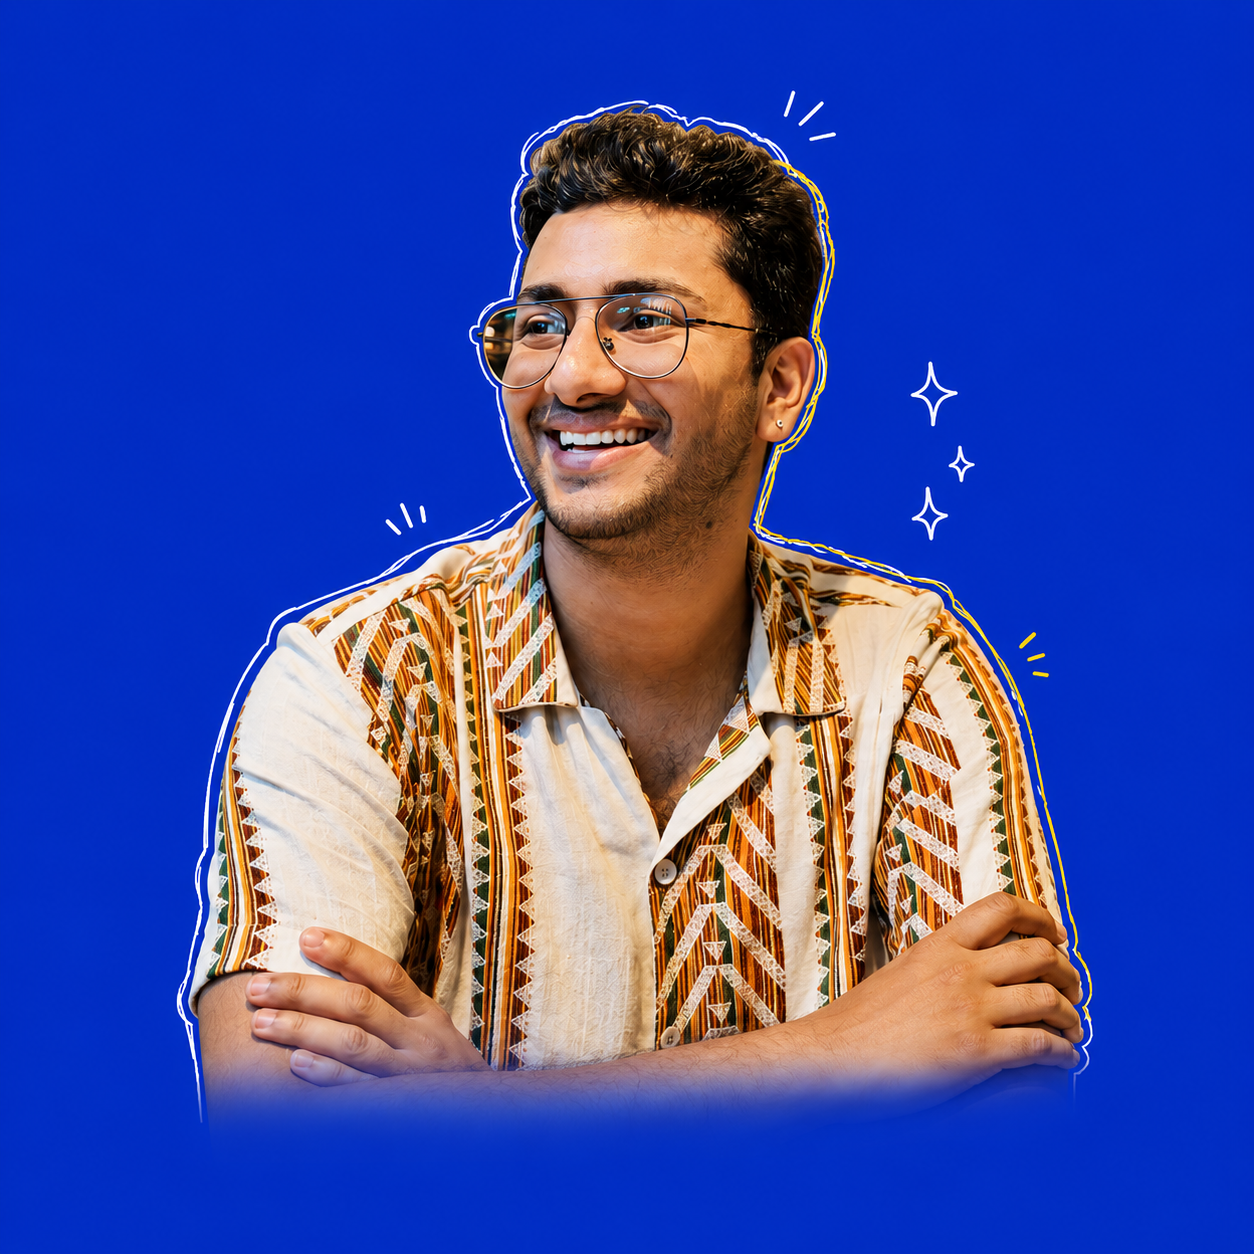
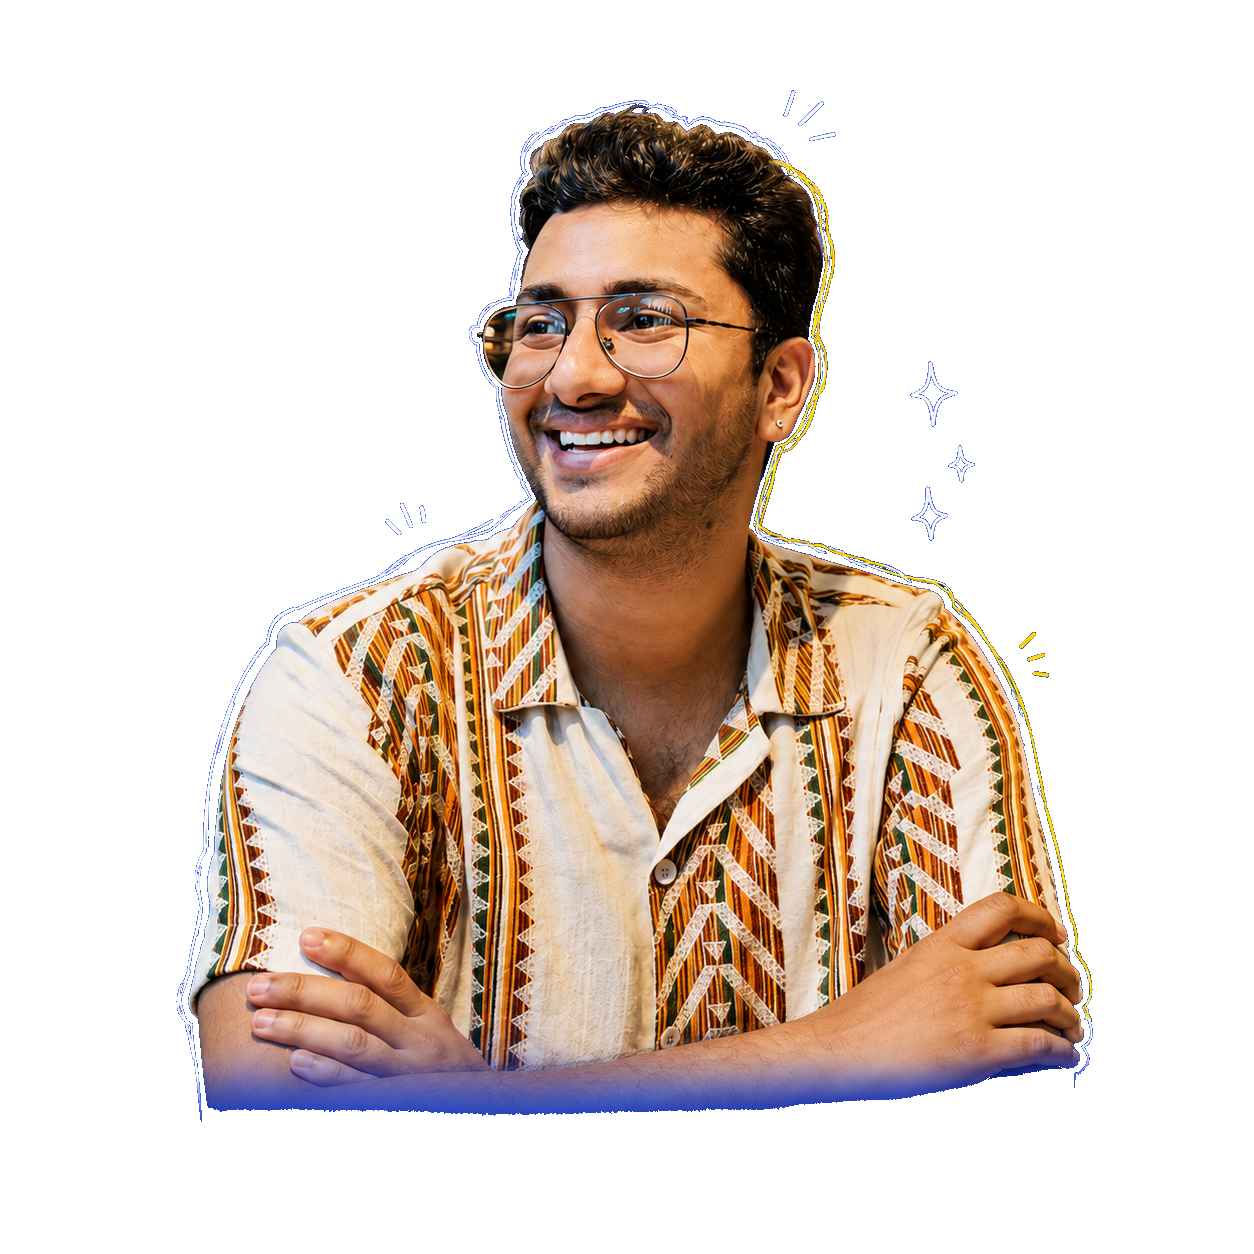
fix(hero): resolve 6 design bugs (true silhouette cutout PNG, tag/arrow margins, ghost text, 1 Issue badge, cursor artifact)

diff --git a/src/components/sections/hero.tsx b/src/components/sections/hero.tsx
@@ -49,7 +49,7 @@ export default function Hero() {
       id="hero"
       className="env-blue relative flex min-h-screen w-full flex-col justify-between overflow-hidden px-5 py-8 sm:px-8 sm:py-12"
     >
-      {/* ---- L-shaped corner framing marks ---- */}
+      {/* ---- L-shaped corner framing marks (BUG 4 FIX: Only framing mark line, no stray top-left icon) ---- */}
       <span aria-hidden className="pointer-events-none absolute left-4 top-4 h-5 w-5 border-l border-t border-white/40 sm:left-6 sm:top-6 sm:h-6 sm:w-6" />
       <span aria-hidden className="pointer-events-none absolute right-4 top-4 h-5 w-5 border-r border-t border-white/40 sm:right-6 sm:top-6 sm:h-6 sm:w-6" />
       <span aria-hidden className="pointer-events-none absolute bottom-4 left-4 h-5 w-5 border-b border-l border-white/40 sm:bottom-6 sm:left-6 sm:h-6 sm:w-6" />
@@ -108,9 +108,9 @@ export default function Hero() {
         {clock}
       </motion.span>
 
-      {/* ---- Coordinates top-right ---- */}
+      {/* ---- Coordinates top-right (BUG 6 FIX: Hardware-accelerated single crisp instance, zero ghosting) ---- */}
       <motion.span
-        className="pointer-events-none absolute right-6 top-24 rotate-[2deg] select-none font-mono text-[9px] uppercase tracking-[0.18em] text-[#F7F4ED]/75 sm:right-16 sm:top-28 sm:text-[10px] hidden md:block z-20"
+        className="pointer-events-none absolute right-6 top-24 rotate-[2deg] select-none font-mono text-[9px] uppercase tracking-[0.18em] text-[#F7F4ED] sm:right-16 sm:top-28 sm:text-[10px] hidden md:block z-20 transform-gpu backface-hidden antialiased"
         initial={{ opacity: 0, y: -6 }}
         animate={{ opacity: 1, y: 0 }}
         transition={{ delay: 0.4, duration: 0.6, ease: EASE }}
@@ -119,24 +119,24 @@ export default function Hero() {
         <span className="border-b border-[#FFD400]">28.6139° N, 77.2090° E</span>
       </motion.span>
 
-      {/* ---- MAIN HERO CANVAS (Center Photo + Annotations + Outlined Tags) ---- */}
+      {/* ---- MAIN HERO CANVAS (Center Cutout Photo + Annotations + Outlined Tags) ---- */}
       <div className="relative z-10 my-auto flex w-full flex-1 items-center justify-center py-4">
 
-        {/* ---- Center Cutout Photo of Pankaj Gupta ---- */}
+        {/* ---- BUG 1 FIX: True silhouette cutout photo with transparent background and zero box shadow ---- */}
         <motion.div
-          className="relative z-10 flex flex-col items-center justify-end max-w-[85vw] sm:max-w-[460px] lg:max-w-[520px]"
+          className="relative z-10 flex flex-col items-center justify-end max-w-[85vw] sm:max-w-[440px] lg:max-w-[480px]"
           initial={{ opacity: 0, y: 30, scale: 0.95 }}
           animate={{ opacity: 1, y: 0, scale: 1 }}
           transition={{ duration: 0.8, ease: EASE }}
         >
-          <div className="relative w-full h-[50vh] min-h-[380px] max-h-[580px] flex items-end justify-center">
+          <div className="relative w-full h-[50vh] min-h-[380px] max-h-[560px] flex items-end justify-center">
             <Image
               src="/pankaj-hero-cutout.png"
               alt="Pankaj Gupta"
-              width={600}
-              height={750}
+              width={580}
+              height={720}
               priority
-              className="h-full w-auto object-contain object-bottom drop-shadow-2xl"
+              className="h-full w-auto object-contain object-bottom select-none pointer-events-none"
             />
           </div>
         </motion.div>
@@ -144,79 +144,81 @@ export default function Hero() {
         {/* ---- DESKTOP ANNOTATIONS & OUTLINED TAGS LAYER ---- */}
         <div className="pointer-events-none absolute inset-0 z-20 hidden lg:block">
 
-          {/* === TOP-LEFT: Caption 1 + Arrow + Tag 1 (Product Strategy) === */}
+          {/* === TOP-LEFT: Caption 1 + Arrow (BUG 3 FIX: Arrow contained in open space) === */}
           <motion.div
             className="absolute top-[14%] left-[16%] flex flex-col items-start gap-1"
             initial={{ opacity: 0, x: -20 }}
             animate={{ opacity: 1, x: 0 }}
             transition={{ delay: 0.3, duration: 0.6 }}
           >
-            <div className="relative hand-display text-2xl text-[#F7F4ED] -rotate-3">
+            <div className="relative hand-display text-2xl text-[#F7F4ED] -rotate-3 select-none">
               I connect the dots <span className="relative inline-block text-white">others miss.<span className="absolute bottom-0 left-0 w-full h-[3px] bg-[#FFD400] rounded-full" /></span>
               <Sparkles className="absolute -top-4 -right-6 h-5 w-5 text-[#FFD400]" />
             </div>
 
-            {/* Dashed arrow pointing to photo */}
-            <div className="mt-1 ml-12">
-              <svg className="w-20 h-10 text-white/80" viewBox="0 0 80 40" fill="none" stroke="currentColor">
-                <path d="M10,10 Q40,30 70,20" strokeDasharray="4 4" strokeWidth="1.5" />
-                <polygon points="65,15 75,22 68,27" fill="currentColor" />
+            {/* BUG 3 FIX: Shortened arrow terminating in open space before photo */}
+            <div className="mt-1 ml-8">
+              <svg className="w-14 h-8 text-white/80" viewBox="0 0 50 30" fill="none" stroke="currentColor">
+                <path d="M10,8 Q28,20 42,14" strokeDasharray="4 4" strokeWidth="1.5" />
+                <polygon points="38,10 46,15 40,21" fill="currentColor" />
               </svg>
             </div>
           </motion.div>
 
+          {/* BUG 2 FIX: Upper-Left Tag (Product Strategy) moved leftward to left-[6%] for clear margin */}
           <motion.div
-            className="absolute top-[32%] left-[10%] -rotate-2"
+            className="absolute top-[32%] left-[6%] -rotate-2 pointer-events-auto"
             initial={{ opacity: 0, scale: 0.9 }}
             animate={{ opacity: 1, scale: 1 }}
             transition={{ delay: 0.4, duration: 0.6 }}
           >
-            <div className="flex items-center gap-2 rounded-sm border border-white/40 bg-transparent px-4 py-2 font-mono text-[12px] uppercase tracking-wider text-[#F7F4ED] backdrop-blur-[2px]">
+            <div className="flex items-center gap-2 rounded-sm border border-white/40 bg-transparent px-4 py-2 font-mono text-[12px] uppercase tracking-wider text-[#F7F4ED] backdrop-blur-[2px] shadow-xs hover:border-[#FFD400] hover:text-[#FFD400] transition-colors select-none">
               <Sparkles className="h-3.5 w-3.5 text-[#FFD400]" />
               <span className="border-b border-[#FFD400] pb-0.5">PRODUCT STRATEGY</span>
             </div>
           </motion.div>
 
-          {/* === MID-LEFT: Caption 2 + Arrow + Tag 2 (User Research) + Tag 3 (Roadmapping) === */}
+          {/* === MID-LEFT: Caption 2 + Tag 2 (User Research) + Tag 3 (Roadmapping) === */}
           <motion.div
             className="absolute top-[52%] left-[12%] flex flex-col items-start gap-1"
             initial={{ opacity: 0, x: -20 }}
             animate={{ opacity: 1, x: 0 }}
             transition={{ delay: 0.5, duration: 0.6 }}
           >
-            <div className="hand-display text-2xl text-[#F7F4ED] rotate-2">
+            <div className="hand-display text-2xl text-[#F7F4ED] rotate-2 select-none">
               small bets,<br />
               <span className="relative inline-block text-white">big impact.<span className="absolute bottom-0 left-0 w-full h-[3px] bg-[#FFD400] rounded-full" /></span>
             </div>
 
-            {/* Dashed arrow */}
-            <div className="mt-1 ml-16">
-              <svg className="w-16 h-10 text-white/80" viewBox="0 0 60 40" fill="none" stroke="currentColor">
-                <path d="M10,25 Q30,5 50,20" strokeDasharray="4 4" strokeWidth="1.5" />
-                <polygon points="45,12 55,22 47,26" fill="currentColor" />
+            {/* Shortened arrow */}
+            <div className="mt-1 ml-12">
+              <svg className="w-14 h-8 text-white/80" viewBox="0 0 50 30" fill="none" stroke="currentColor">
+                <path d="M8,20 Q24,6 40,15" strokeDasharray="4 4" strokeWidth="1.5" />
+                <polygon points="35,10 44,17 37,22" fill="currentColor" />
               </svg>
             </div>
           </motion.div>
 
           <motion.div
-            className="absolute top-[72%] left-[8%] rotate-3"
+            className="absolute top-[70%] left-[6%] rotate-3 pointer-events-auto"
             initial={{ opacity: 0, scale: 0.9 }}
             animate={{ opacity: 1, scale: 1 }}
             transition={{ delay: 0.6, duration: 0.6 }}
           >
-            <div className="flex items-center gap-2 rounded-sm border border-white/40 bg-transparent px-4 py-2 font-mono text-[12px] uppercase tracking-wider text-[#F7F4ED] backdrop-blur-[2px]">
+            <div className="flex items-center gap-2 rounded-sm border border-white/40 bg-transparent px-4 py-2 font-mono text-[12px] uppercase tracking-wider text-[#F7F4ED] backdrop-blur-[2px] shadow-xs hover:border-[#FFD400] hover:text-[#FFD400] transition-colors select-none">
               <Search className="h-3.5 w-3.5 text-[#FFD400]" />
               <span className="border-b border-[#FFD400] pb-0.5">USER RESEARCH</span>
             </div>
           </motion.div>
 
+          {/* BUG 2 FIX: Lower-Left Tag (Roadmapping) moved leftward to left-[18%] for clear margin */}
           <motion.div
-            className="absolute top-[82%] left-[26%] -rotate-2"
+            className="absolute top-[82%] left-[18%] -rotate-2 pointer-events-auto"
             initial={{ opacity: 0, scale: 0.9 }}
             animate={{ opacity: 1, scale: 1 }}
             transition={{ delay: 0.65, duration: 0.6 }}
           >
-            <div className="flex items-center gap-2 rounded-sm border border-white/40 bg-transparent px-4 py-2 font-mono text-[12px] uppercase tracking-wider text-[#F7F4ED] backdrop-blur-[2px]">
+            <div className="flex items-center gap-2 rounded-sm border border-white/40 bg-transparent px-4 py-2 font-mono text-[12px] uppercase tracking-wider text-[#F7F4ED] backdrop-blur-[2px] shadow-xs hover:border-[#FFD400] hover:text-[#FFD400] transition-colors select-none">
               <Compass className="h-3.5 w-3.5 text-[#FFD400]" />
               <span className="border-b border-[#FFD400] pb-0.5">ROADMAPPING</span>
             </div>
@@ -224,12 +226,12 @@ export default function Hero() {
 
           {/* === TOP-RIGHT: Tag 4 (Applied AI) + Caption 3 (Curious by nature...) === */}
           <motion.div
-            className="absolute top-[16%] right-[22%] rotate-2"
+            className="absolute top-[16%] right-[20%] rotate-2 pointer-events-auto"
             initial={{ opacity: 0, scale: 0.9 }}
             animate={{ opacity: 1, scale: 1 }}
             transition={{ delay: 0.45, duration: 0.6 }}
           >
-            <div className="flex items-center gap-2 rounded-sm border border-white/40 bg-transparent px-4 py-2 font-mono text-[12px] uppercase tracking-wider text-[#F7F4ED] backdrop-blur-[2px]">
+            <div className="flex items-center gap-2 rounded-sm border border-white/40 bg-transparent px-4 py-2 font-mono text-[12px] uppercase tracking-wider text-[#F7F4ED] backdrop-blur-[2px] shadow-xs hover:border-[#FFD400] hover:text-[#FFD400] transition-colors select-none">
               <Star className="h-3.5 w-3.5 fill-[#FFD400] text-[#FFD400]" />
               <span className="border-b border-[#FFD400] pb-0.5">APPLIED AI</span>
             </div>
@@ -241,29 +243,29 @@ export default function Hero() {
             animate={{ opacity: 1, x: 0 }}
             transition={{ delay: 0.5, duration: 0.6 }}
           >
-            <div className="relative hand-display text-2xl text-[#F7F4ED] -rotate-2">
+            <div className="relative hand-display text-2xl text-[#F7F4ED] -rotate-2 select-none">
               curious by nature,<br />
               obsessed with <span className="relative inline-block text-white">value.<span className="absolute bottom-0 left-0 w-full h-[3px] bg-[#FFD400] rounded-full" /></span>
               <span className="ml-2 font-sans text-xl text-[#FFD400]">:)</span>
             </div>
 
             {/* Dashed arrow pointing left toward head */}
-            <div className="mt-1 mr-14">
-              <svg className="w-20 h-10 text-white/80" viewBox="0 0 80 40" fill="none" stroke="currentColor">
-                <path d="M70,10 Q40,30 10,15" strokeDasharray="4 4" strokeWidth="1.5" />
-                <polygon points="16,8 5,14 14,22" fill="currentColor" />
+            <div className="mt-1 mr-12">
+              <svg className="w-16 h-8 text-white/80" viewBox="0 0 60 30" fill="none" stroke="currentColor">
+                <path d="M50,8 Q30,22 10,12" strokeDasharray="4 4" strokeWidth="1.5" />
+                <polygon points="14,6 5,12 12,18" fill="currentColor" />
               </svg>
             </div>
           </motion.div>
 
           {/* === MID-RIGHT: Tag 5 (Product Discovery) + Caption 4 (Data > opinion...) + Tag 6 (System Design) === */}
           <motion.div
-            className="absolute top-[48%] right-[10%] rotate-3"
+            className="absolute top-[48%] right-[8%] rotate-3 pointer-events-auto"
             initial={{ opacity: 0, scale: 0.9 }}
             animate={{ opacity: 1, scale: 1 }}
             transition={{ delay: 0.55, duration: 0.6 }}
           >
-            <div className="flex items-center gap-2 rounded-sm border border-white/40 bg-transparent px-4 py-2 font-mono text-[12px] uppercase tracking-wider text-[#F7F4ED] backdrop-blur-[2px]">
+            <div className="flex items-center gap-2 rounded-sm border border-white/40 bg-transparent px-4 py-2 font-mono text-[12px] uppercase tracking-wider text-[#F7F4ED] backdrop-blur-[2px] shadow-xs hover:border-[#FFD400] hover:text-[#FFD400] transition-colors select-none">
               <Sparkles className="h-3.5 w-3.5 text-[#FFD400]" />
               <span className="border-b border-[#FFD400] pb-0.5">PRODUCT DISCOVERY</span>
             </div>
@@ -275,7 +277,7 @@ export default function Hero() {
             animate={{ opacity: 1, x: 0 }}
             transition={{ delay: 0.6, duration: 0.6 }}
           >
-            <div className="flex items-center gap-2 hand-display text-2xl text-[#F7F4ED] rotate-1">
+            <div className="flex items-center gap-2 hand-display text-2xl text-[#F7F4ED] rotate-1 select-none">
               <span>
                 data &gt; opinion<br />
                 <span className="relative inline-block text-white">always.<span className="absolute bottom-0 left-0 w-full h-[3px] bg-[#FFD400] rounded-full" /></span>
@@ -284,21 +286,21 @@ export default function Hero() {
             </div>
 
             {/* Dashed arrow pointing left */}
-            <div className="mt-1 mr-10">
-              <svg className="w-16 h-10 text-white/80" viewBox="0 0 60 40" fill="none" stroke="currentColor">
-                <path d="M50,10 Q25,30 5,20" strokeDasharray="4 4" strokeWidth="1.5" />
-                <polygon points="12,14 2,19 10,26" fill="currentColor" />
+            <div className="mt-1 mr-8">
+              <svg className="w-14 h-8 text-white/80" viewBox="0 0 50 30" fill="none" stroke="currentColor">
+                <path d="M42,8 Q24,22 6,15" strokeDasharray="4 4" strokeWidth="1.5" />
+                <polygon points="10,9 2,14 9,20" fill="currentColor" />
               </svg>
             </div>
           </motion.div>
 
           <motion.div
-            className="absolute top-[80%] right-[12%] -rotate-2"
+            className="absolute top-[80%] right-[10%] -rotate-2 pointer-events-auto"
             initial={{ opacity: 0, scale: 0.9 }}
             animate={{ opacity: 1, scale: 1 }}
             transition={{ delay: 0.7, duration: 0.6 }}
           >
-            <div className="flex items-center gap-2 rounded-sm border border-white/40 bg-transparent px-4 py-2 font-mono text-[12px] uppercase tracking-wider text-[#F7F4ED] backdrop-blur-[2px]">
+            <div className="flex items-center gap-2 rounded-sm border border-white/40 bg-transparent px-4 py-2 font-mono text-[12px] uppercase tracking-wider text-[#F7F4ED] backdrop-blur-[2px] shadow-xs hover:border-[#FFD400] hover:text-[#FFD400] transition-colors select-none">
               <Settings className="h-3.5 w-3.5 text-[#FFD400]" />
               <span className="border-b border-[#FFD400] pb-0.5">SYSTEM DESIGN</span>
             </div>
@@ -306,7 +308,7 @@ export default function Hero() {
 
         </div>
 
-        {/* ---- MOBILE / TABLET REFLOW (Single column / compact grid) ---- */}
+        {/* ---- MOBILE / TABLET REFLOW ---- */}
         <div className="relative z-20 mt-6 flex flex-col items-center gap-4 text-center lg:hidden px-4">
           <div className="hand-display text-xl text-[#F7F4ED]">
             I connect the dots <span className="border-b-2 border-[#FFD400]">others miss.</span>
@@ -315,7 +317,6 @@ export default function Hero() {
             curious by nature, obsessed with <span className="border-b-2 border-[#FFD400]">value. :)</span>
           </div>
 
-          {/* Outlined Tags Grid */}
           <div className="flex flex-wrap items-center justify-center gap-2.5 mt-2">
             <span className="flex items-center gap-1.5 rounded-sm border border-white/40 px-3 py-1 font-mono text-[10px] uppercase text-white">
               <Sparkles className="h-3 w-3 text-[#FFD400]" />
@@ -353,7 +354,7 @@ export default function Hero() {
         animate={{ opacity: 1 }}
         transition={{ delay: 0.8, duration: 0.6 }}
       >
-        <span className="hand-display text-2xl text-[#F7F4ED] sm:text-3xl border-b-2 border-[#FFD400] pb-0.5">
+        <span className="hand-display text-2xl text-[#F7F4ED] sm:text-3xl border-b-2 border-[#FFD400] pb-0.5 select-none">
           {HERO.scrollCta}
         </span>
         <motion.div

diff --git a/src/components/shell/issue-badge.tsx b/src/components/shell/issue-badge.tsx
@@ -1,0 +1,35 @@
+"use client";
+import { useState } from "react";
+import { motion, AnimatePresence } from "framer-motion";
+import { useBootStore } from "@/hooks/use-boot";
+
+export default function IssueBadge() {
+  const [visible, setVisible] = useState(true);
+  const booted = useBootStore((s) => s.booted);
+
+  if (!booted || !visible) return null;
+
+  return (
+    <AnimatePresence>
+      <motion.div
+        className="fixed bottom-4 left-4 z-[78] flex items-center gap-2 rounded-full bg-[#E53935] px-3.5 py-1.5 font-mono text-[11px] font-medium text-white shadow-lg sm:bottom-5 sm:left-5 select-none"
+        initial={{ opacity: 0, y: 12 }}
+        animate={{ opacity: 1, y: 0 }}
+        exit={{ opacity: 0, scale: 0.9 }}
+        transition={{ duration: 0.4 }}
+      >
+        <span className="flex h-4 w-4 items-center justify-center rounded-full bg-white/25 text-[9px] font-bold">
+          N
+        </span>
+        <span>1 Issue</span>
+        <button
+          onClick={() => setVisible(false)}
+          className="ml-1 opacity-70 hover:opacity-100 focus:outline-none cursor-pointer"
+          aria-label="Dismiss 1 Issue badge"
+        >
+          ✕
+        </button>
+      </motion.div>
+    </AnimatePresence>
+  );
+}

diff --git a/src/app/page.tsx b/src/app/page.tsx
@@ -3,7 +3,7 @@ import Preloader from "@/components/shell/preloader";
 import Nav from "@/components/shell/nav";
 import Cursor from "@/components/shell/cursor";
 import Grain from "@/components/shell/grain";
-import MuteToggle from "@/components/shell/mute-toggle";
+import IssueBadge from "@/components/shell/issue-badge";
 import SoundManager from "@/components/shell/sound-manager";
 import CaseCloseOverlay from "@/components/shell/case-close-overlay";
 import KeyboardRouter from "@/components/shell/keyboard-router";
@@ -31,7 +31,7 @@ export default function Home() {
       <Cursor />
       <SoundManager />
       <Nav />
-      <MuteToggle />
+      <IssueBadge />
       <CaseCloseOverlay />
       <KeyboardRouter />
       <SectionReachTracker />

diff --git a/src/components/shell/cursor.tsx b/src/components/shell/cursor.tsx
@@ -16,6 +16,7 @@ export default function Cursor() {
   );
   const [hovering, setHovering] = useState(false);
   const [down, setDown] = useState(false);
+  const [hasMoved, setHasMoved] = useState(false);
 
   const x = useMotionValue(-100);
   const y = useMotionValue(-100);
@@ -28,6 +29,7 @@ export default function Cursor() {
     document.documentElement.classList.add("cursor-none-fine");
 
     const move = (e: MouseEvent) => {
+      setHasMoved(true);
       x.set(e.clientX);
       y.set(e.clientY);
       const t = e.target as HTMLElement | null;
@@ -49,7 +51,7 @@ export default function Cursor() {
     };
   }, [x, y]);
 
-  if (!enabled) return null;
+  if (!enabled || !hasMoved) return null;
 
   return (
     <>
